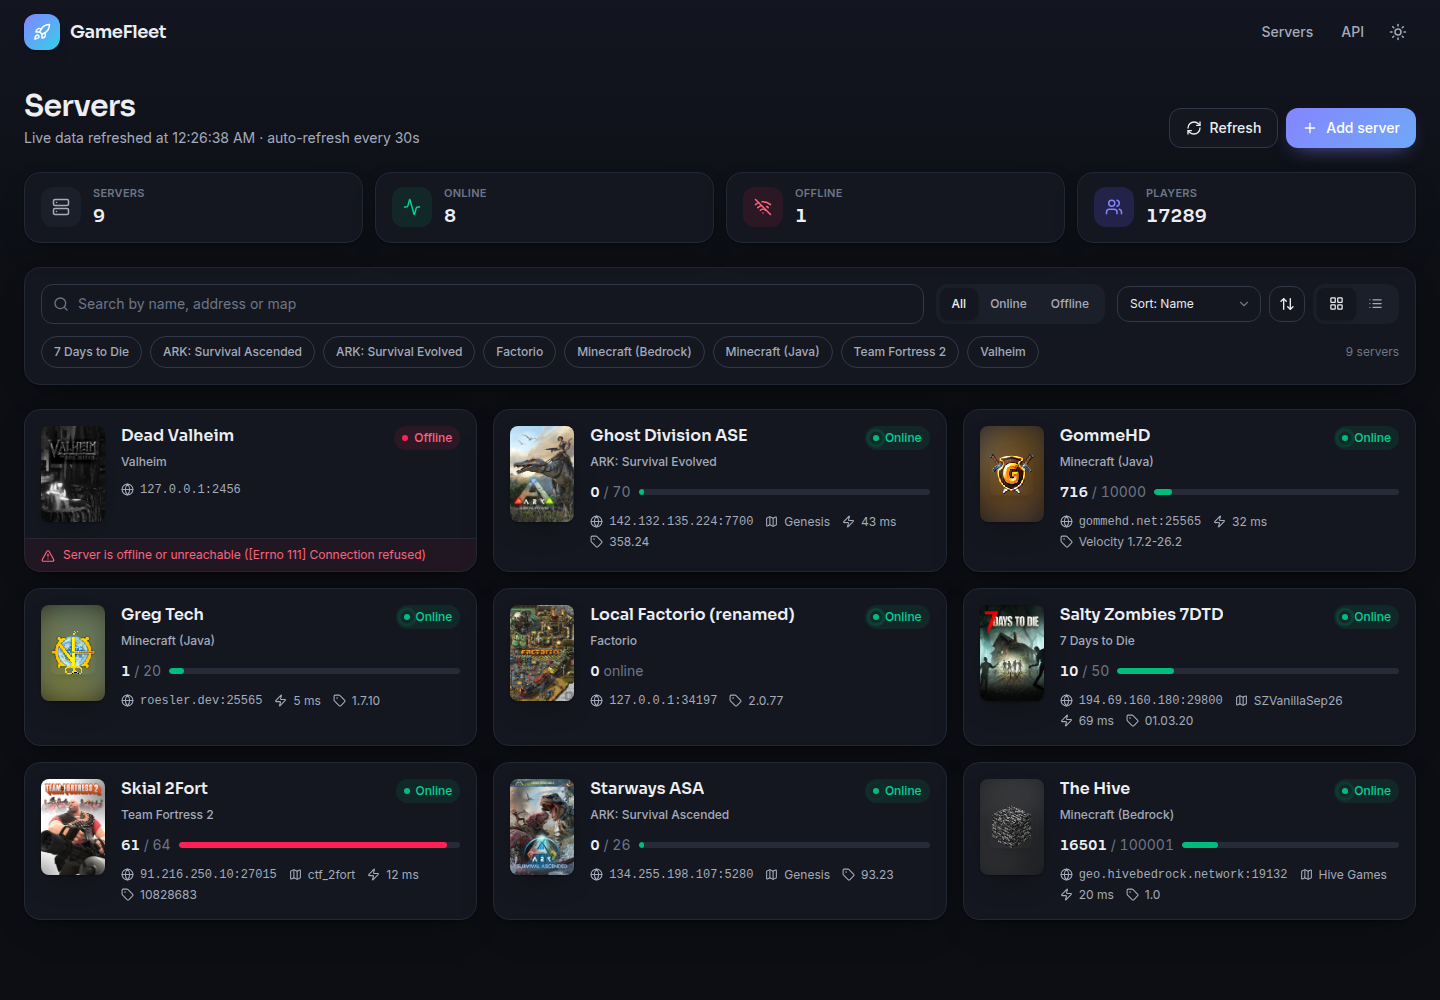
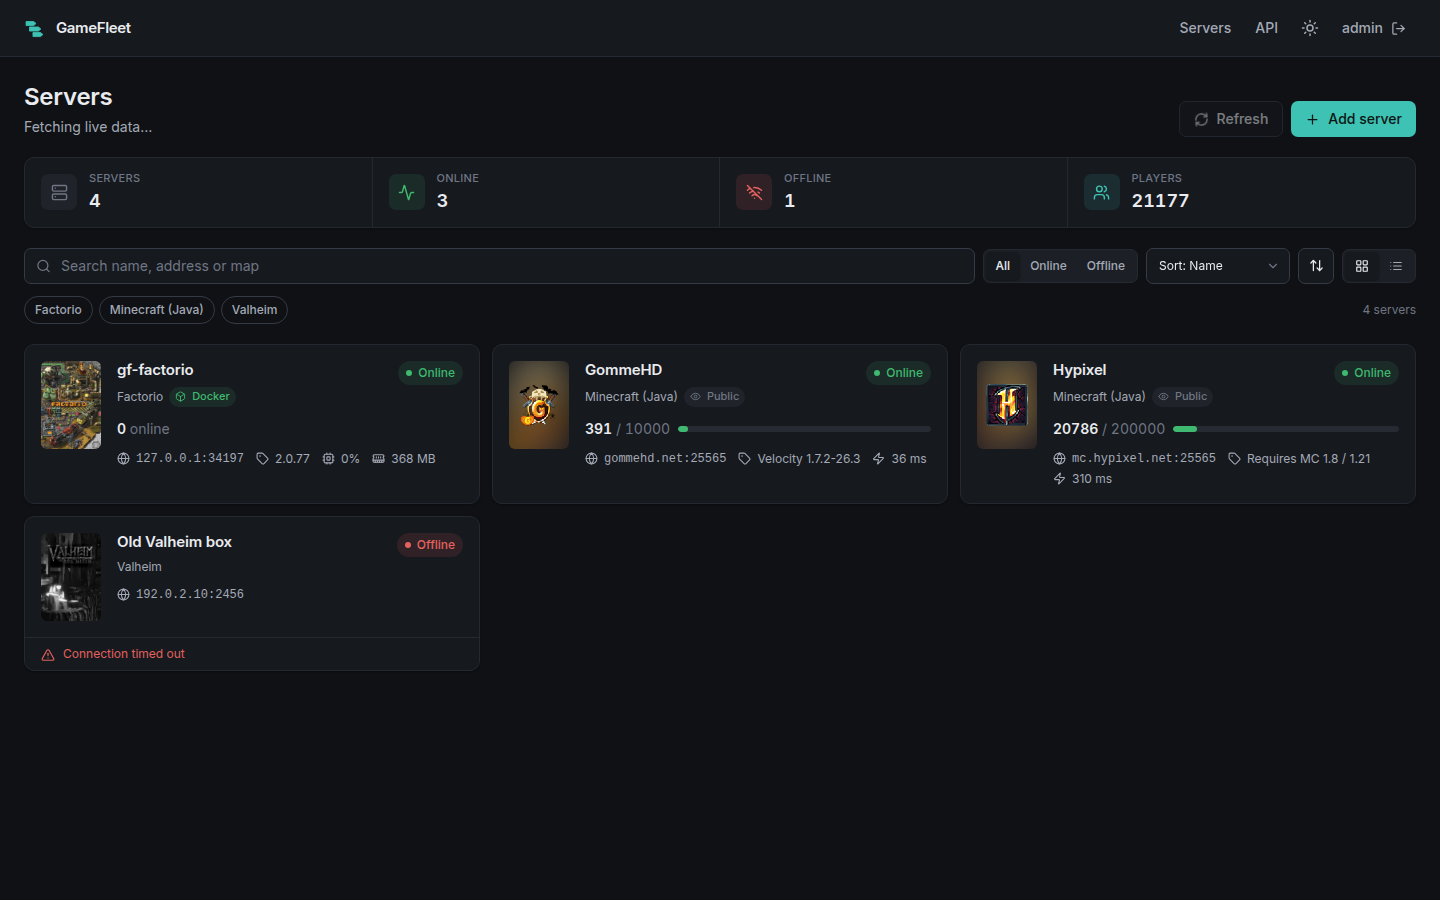
Release 2.0.0: new look, settings editing and server deployment
Version 2.0.0 in both manifests, a test target, README sections for deploying and settings, and new screenshots.

diff --git a/frontend/src/lib/api/Api.ts b/frontend/src/lib/api/Api.ts
@@ -1407,7 +1407,7 @@ export class HttpClient<SecurityDataType = unknown> {
 
 /**
  * @title Game Server Dashboard API
- * @version 1.4.0
+ * @version 2.0.0
  *
  * API for managing and monitoring game servers
  */

diff --git a/README.md b/README.md
@@ -71,6 +71,8 @@ Then open http://localhost:3000. Visitors see the servers you mark as public, an
 - Search, filters, sorting, grid and list view, light and dark theme, real game artwork
 - Public by default: visitors see the servers you mark as public, signing in unlocks the rest
 - Game servers in Docker on the same host are recognised automatically: start, stop, restart, CPU, memory and disk usage
+- Deploy new servers from a template: Minecraft Java and Bedrock, Factorio, Valheim and Satisfactory
+- Edit server settings in a form (`server.properties`, Factorio's server settings) or any config file in a raw editor
 - Modpack detection for Minecraft (Modrinth, CurseForge, FTB, GTNH)
 - Restore from the backups your servers already make, or from an uploaded file
 
@@ -96,6 +98,18 @@ The port of a server is always the one players connect to. Query and RCON ports 
 With the Docker socket mounted, GameFleet looks at every container on the host and recognises game servers by their image (`itzg/minecraft-server`, `factoriotools/factorio`, `wolveix/satisfactory-server`, `lloesche/valheim-server` and many more). Container names and ports are used as a hint when the image is unknown. There is nothing to label or configure, because data paths, ports and RCON passwords are read from the container itself.
 
 **Import from Docker** on the dashboard adds all running game servers at once. Single containers, stopped ones included, can be imported from the host panel. Several instances of one game on the same port are fine too: starting one whose port is taken offers to stop the other first.
+
+## Deploying servers
+
+**Add server → Deploy a new server** creates a game server in Docker on the GameFleet host. Pick a game, give it a name, fill in the few settings that matter (version, memory, passwords, max players) and the host ports, and GameFleet pulls the image, creates the container and adds it to the dashboard. Templates exist for Minecraft Java (`itzg/minecraft-server`, with Paper, Fabric, Forge, NeoForge and modpacks from Modrinth or CurseForge), Minecraft Bedrock, Factorio, Valheim and Satisfactory.
+
+Each server lives in `SERVERS_ROOT/<game>/<name>` on the host (default `/opt/gamefleet/servers`), with its data folder and a `docker-compose.yml` that describes the container, so you can keep managing it by hand with `docker compose` whenever you like. Ports are checked against the other containers before anything is created.
+
+## Settings
+
+Servers in Docker get a **Settings** panel with the important options as a form: for Minecraft the `server.properties` keys such as MOTD, difficulty, game mode, PvP, whitelist and view distance, for Factorio the `server-settings.json` values. Anything else is reachable through **Edit file**, a raw editor for the known config files of each game (ops and whitelist, Paper and Spigot configs, Factorio map settings, Valheim admin lists, Satisfactory ini files). Changes are written to the container and apply on the next start; the panel offers the restart.
+
+Settings that the container sets from its environment (itzg's `MOTD`, `MAX_PLAYERS` and the like) are shown but locked, because the image rewrites them on every start. Change those in the compose file.
 
 ## Backups
 
@@ -124,11 +138,12 @@ Set these in `.env` when running from source, or in the compose file:
 | `DATABASE_URL` | – | Full connection URL that replaces the `DB_*` values, e.g. `postgresql+asyncpg://gamefleet:secret@db.example.com:5432/gamefleet` |
 | `FRONTEND_PORT`, `BACKEND_PORT` | `3000`, `8000` | Published ports when running from source. Browsers only need the frontend |
 | `DOCKER_SERVER_ADDRESS` | `host.docker.internal` | Address GameFleet uses to reach game servers in Docker |
+| `SERVERS_ROOT` | `/opt/gamefleet/servers` | Host folder where deployed servers get their data and compose file |
 | `GAMEFLEET_DEV` | `false` | Development mode with API docs at `/swagger` and verbose logs. Not meant for production |
 
 ## Development
 
-You need [uv](https://docs.astral.sh/uv/), [pnpm](https://pnpm.io/) and Docker. Run `make install` and `make db`, then `make backend` and `make frontend` in two terminals (API on port 8000, dashboard on 3000, both reload on changes). `make check` type-checks and lints, and `make swagger` regenerates the API client after model changes.
+You need [uv](https://docs.astral.sh/uv/), [pnpm](https://pnpm.io/) and Docker. Run `make install` and `make db`, then `make backend` and `make frontend` in two terminals (API on port 8000, dashboard on 3000, both reload on changes). `make check` type-checks and lints, `make test` runs the backend tests, and `make swagger` regenerates the API client after model changes.
 
 ## License
 
